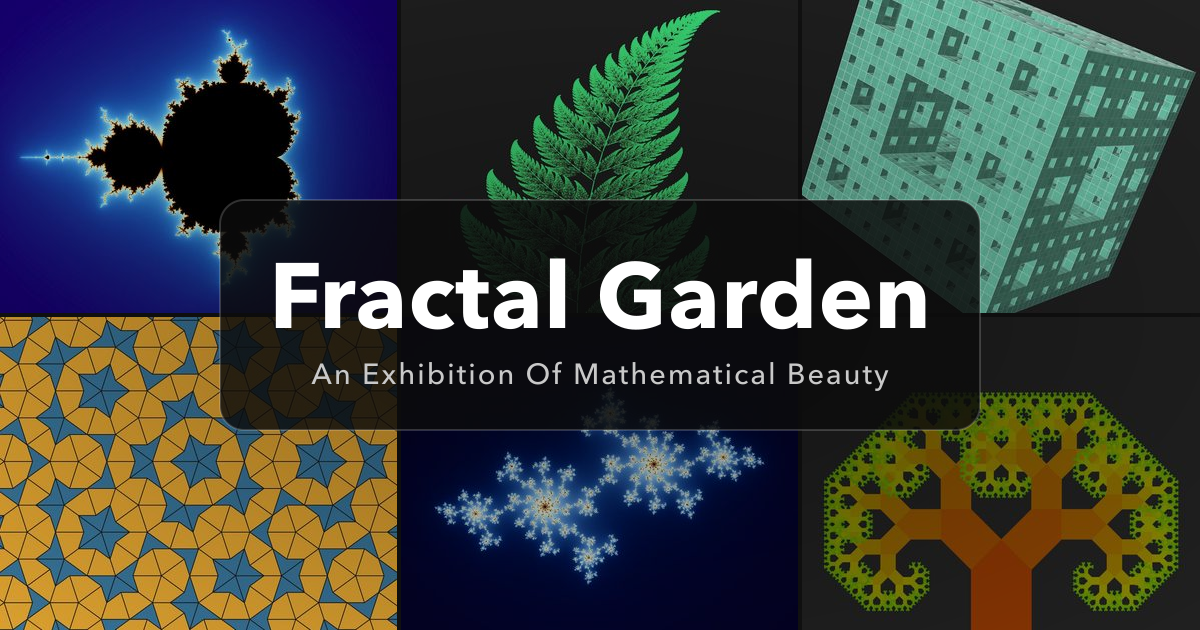
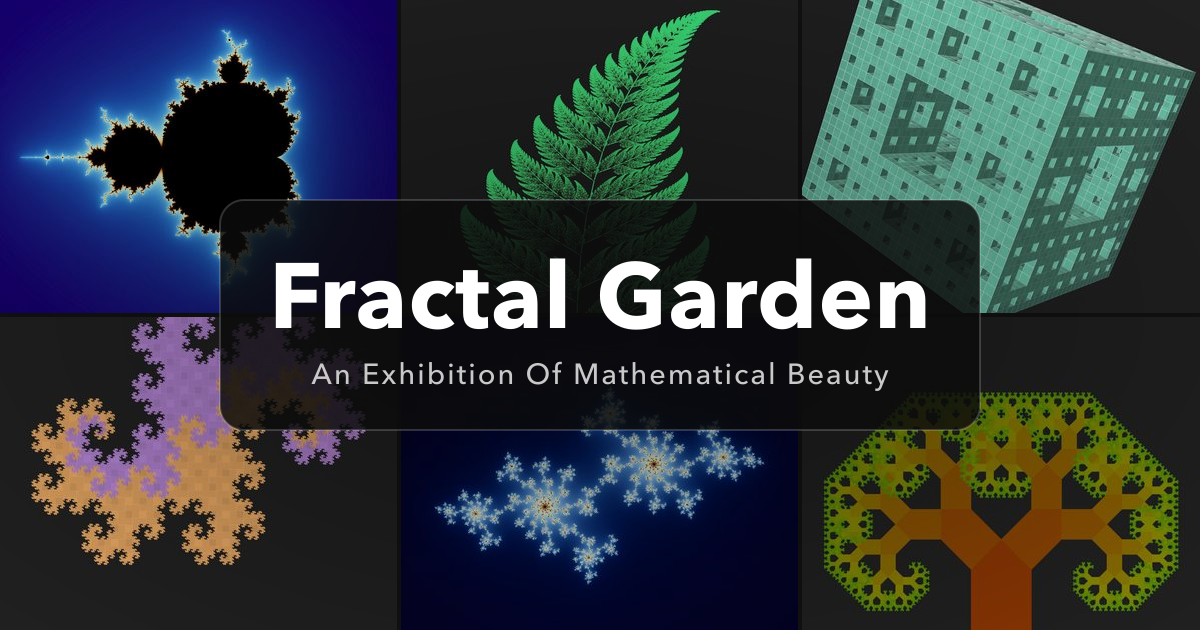
Swap the Penrose tiling for the twindragon, and make the clean card the same collage
A tiling is not really a fractal, and the twindragon's two colours lift the
grid. The text-free og card is now the link preview's own background, so both
cards read as one design. The uploaded GitHub cards keep their old tiles.

Changed region(s): [[0.0, 0.4825, 0.3392, 1.0]]

diff --git a/docs/marketing/README.md b/docs/marketing/README.md
@@ -42,7 +42,7 @@ The gallery shots hide the interface with each page's own **Hide UI** button. Th
 
 | File | Option | Pictures |
 | --- | --- | --- |
-| `social-preview/social-preview-a.png` | A: the home link preview at 2:1 | The home card's six thumbnails from `public/assets/fractal-images/`: Mandelbrot set, Barnsley fern, Menger sponge, Penrose tiling, Julia set, Pythagoras tree |
+| `social-preview/social-preview-a.png` | A: the home link preview at 2:1 | The home card's six thumbnails as uploaded, from before the twindragon replaced the Penrose tiling: Mandelbrot set, Barnsley fern, Menger sponge, Penrose tiling, Julia set, Pythagoras tree |
 | `social-preview/social-preview-b.png` | B: the same design, four by two | Eight other thumbnails: Burning Ship, Barnsley tree, Jerusalem cube, twindragon, romanesco, Mandelbar set, quadratic Koch surface, dragon curve |
 | `social-preview/social-preview-c.png` | C: the panel over one render, full bleed | `screenshots/gallery-mandelbrot-seahorse-valley.webp` |
 | `social-preview/social-preview-d.png` | D: the home card's three by two grid with renders | The six `screenshots/gallery-*.webp` renders |
@@ -55,8 +55,8 @@ None of them is uploaded to GitHub yet. The repository settings take one card un
 
 | File | What it shows |
 | --- | --- |
-| `social-preview/og-wordmark.png` | The site's link preview card (`public/assets/og/home.jpg`, from `scripts/generate-og-images.mjs`) as lossless PNG: six thumbnails under the dark panel, "Fractal Garden" and the site's subtitle "An Exhibition Of Mathematical Beauty" in grey. |
-| `social-preview/og-clean.png` | No text: eight thumbnails from `public/assets/fractal-images/` as the home page's square cards on its background, four by two (Mandelbrot set, Barnsley fern, Julia set, Menger sponge; Pythagoras tree, Burning Ship, twindragon, Mandelbar set). Drawn at 2× and downscaled. |
+| `social-preview/og-wordmark.png` | The site's link preview card (`public/assets/og/home.jpg`, from `scripts/generate-og-images.mjs`) as lossless PNG: six thumbnails (Mandelbrot set, Barnsley fern, Menger sponge, twindragon, Julia set, Pythagoras tree) under the dark panel, "Fractal Garden" and the site's subtitle "An Exhibition Of Mathematical Beauty" in grey. |
+| `social-preview/og-clean.png` | No text: the same six thumbnails as `og-wordmark.png`, without the vignette, panel or text. |
 
 ## Live GitHub social preview
 
